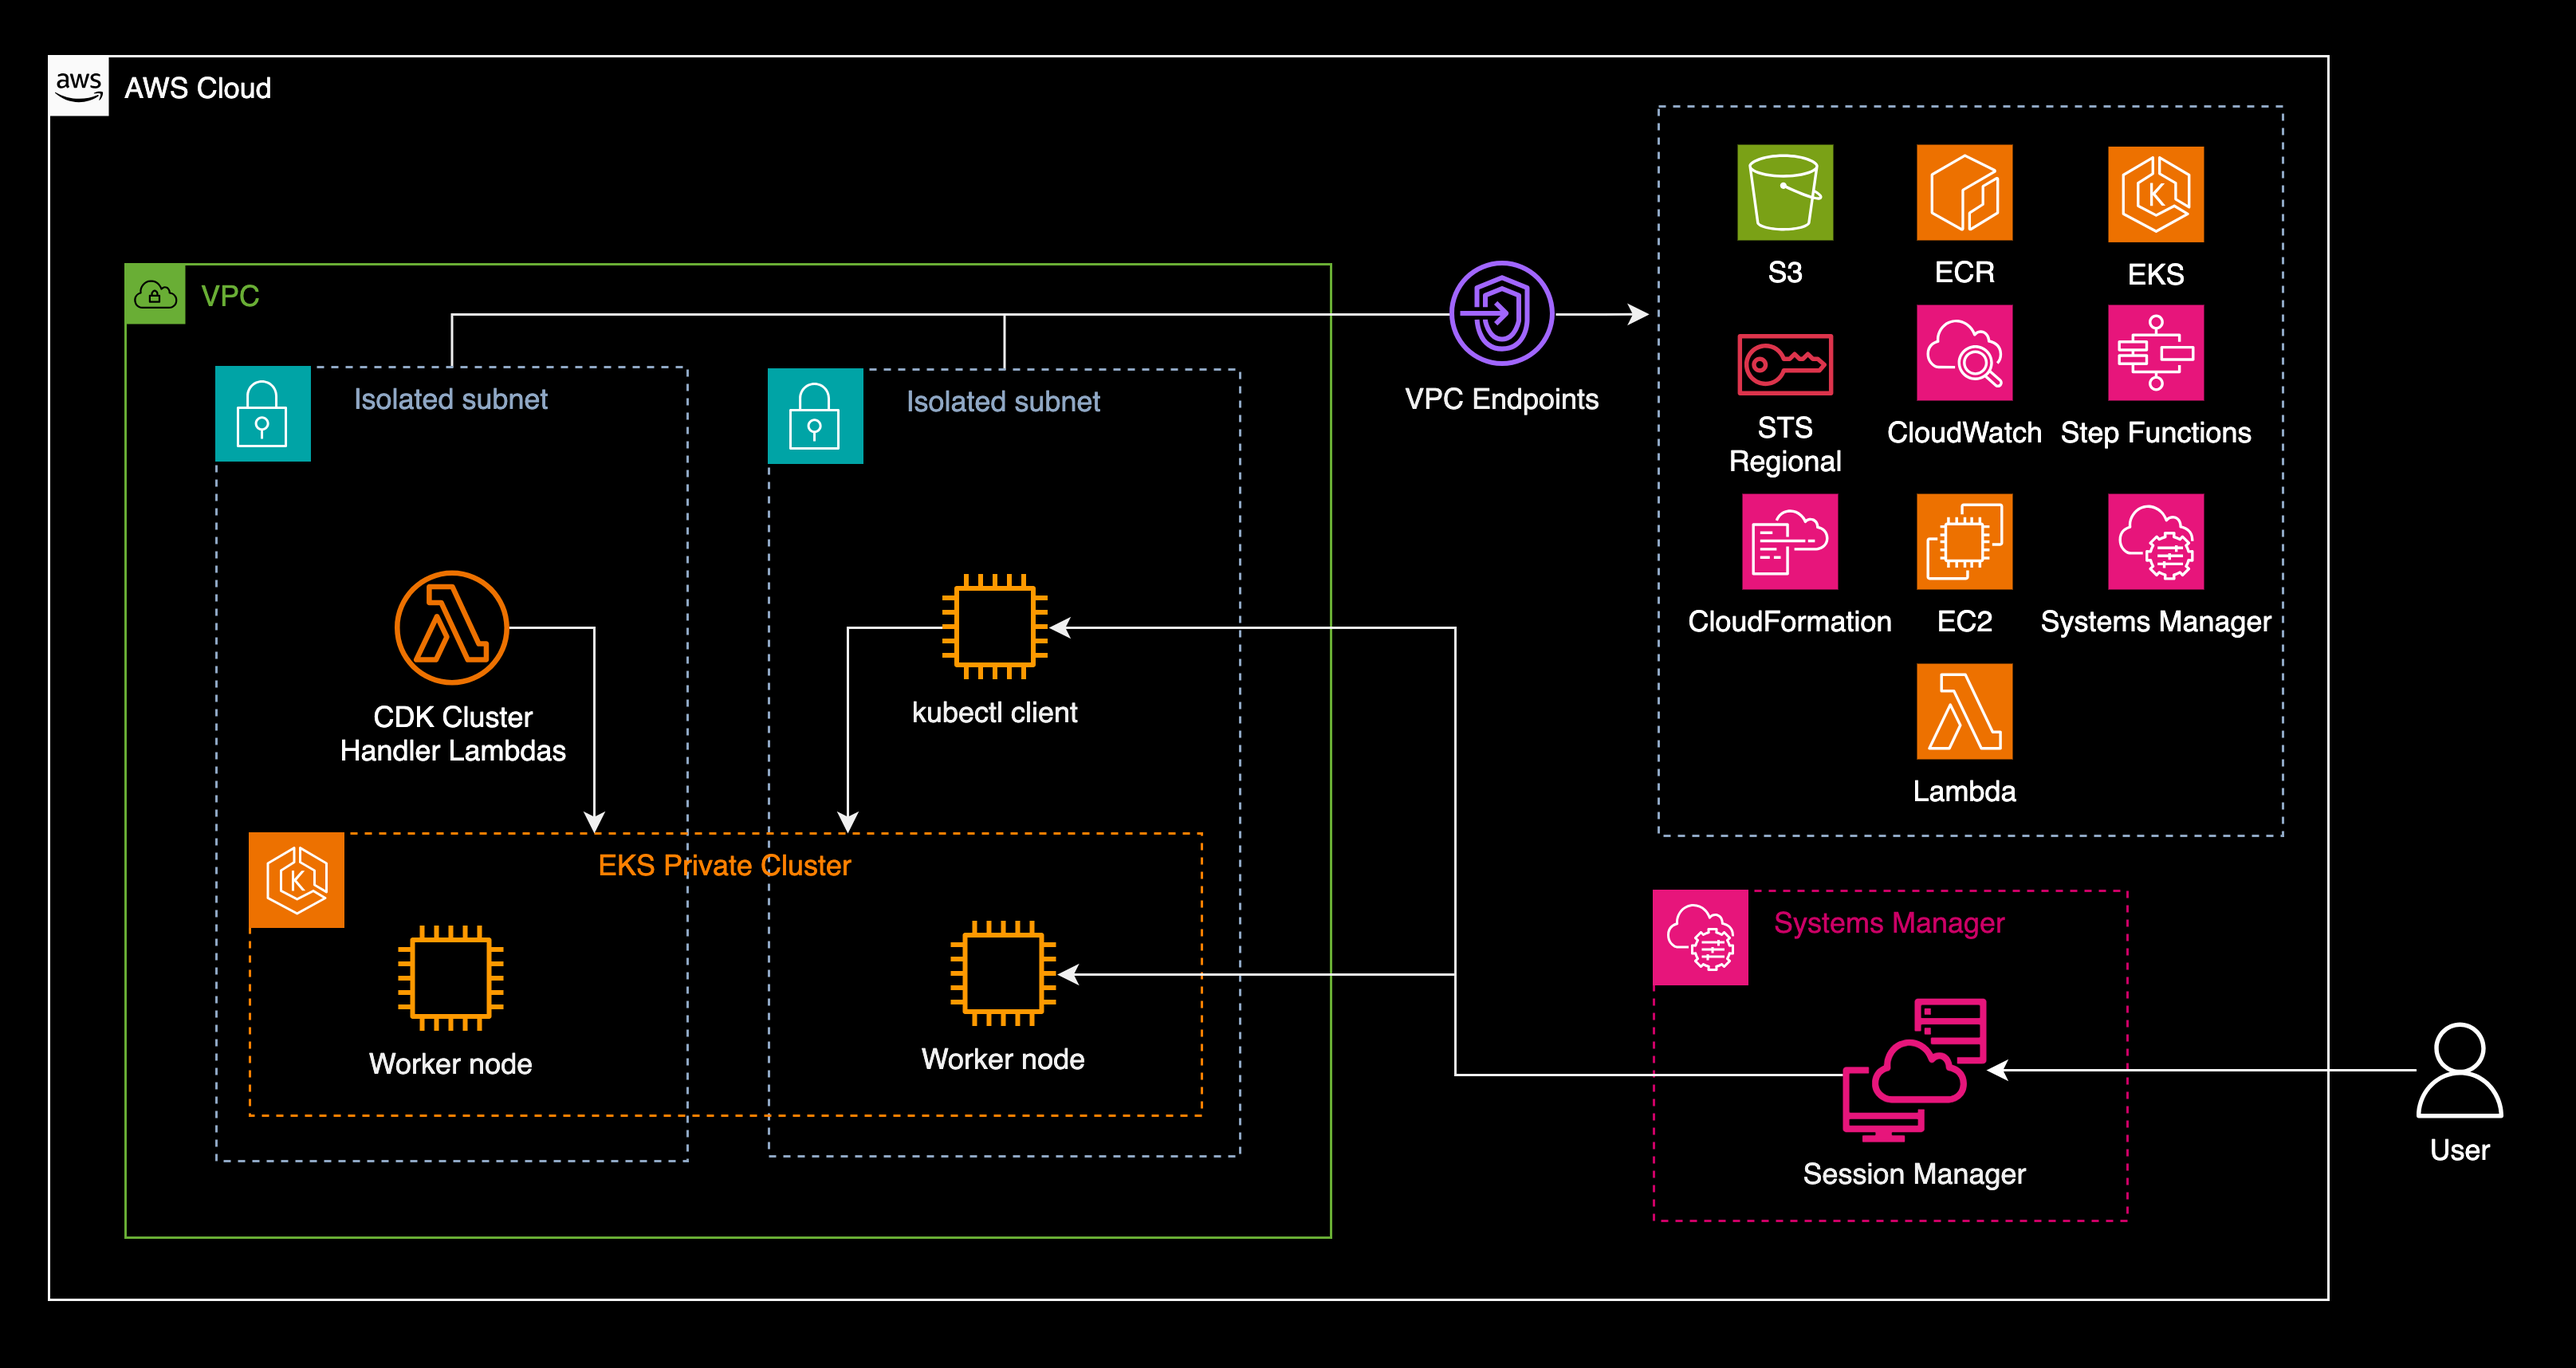
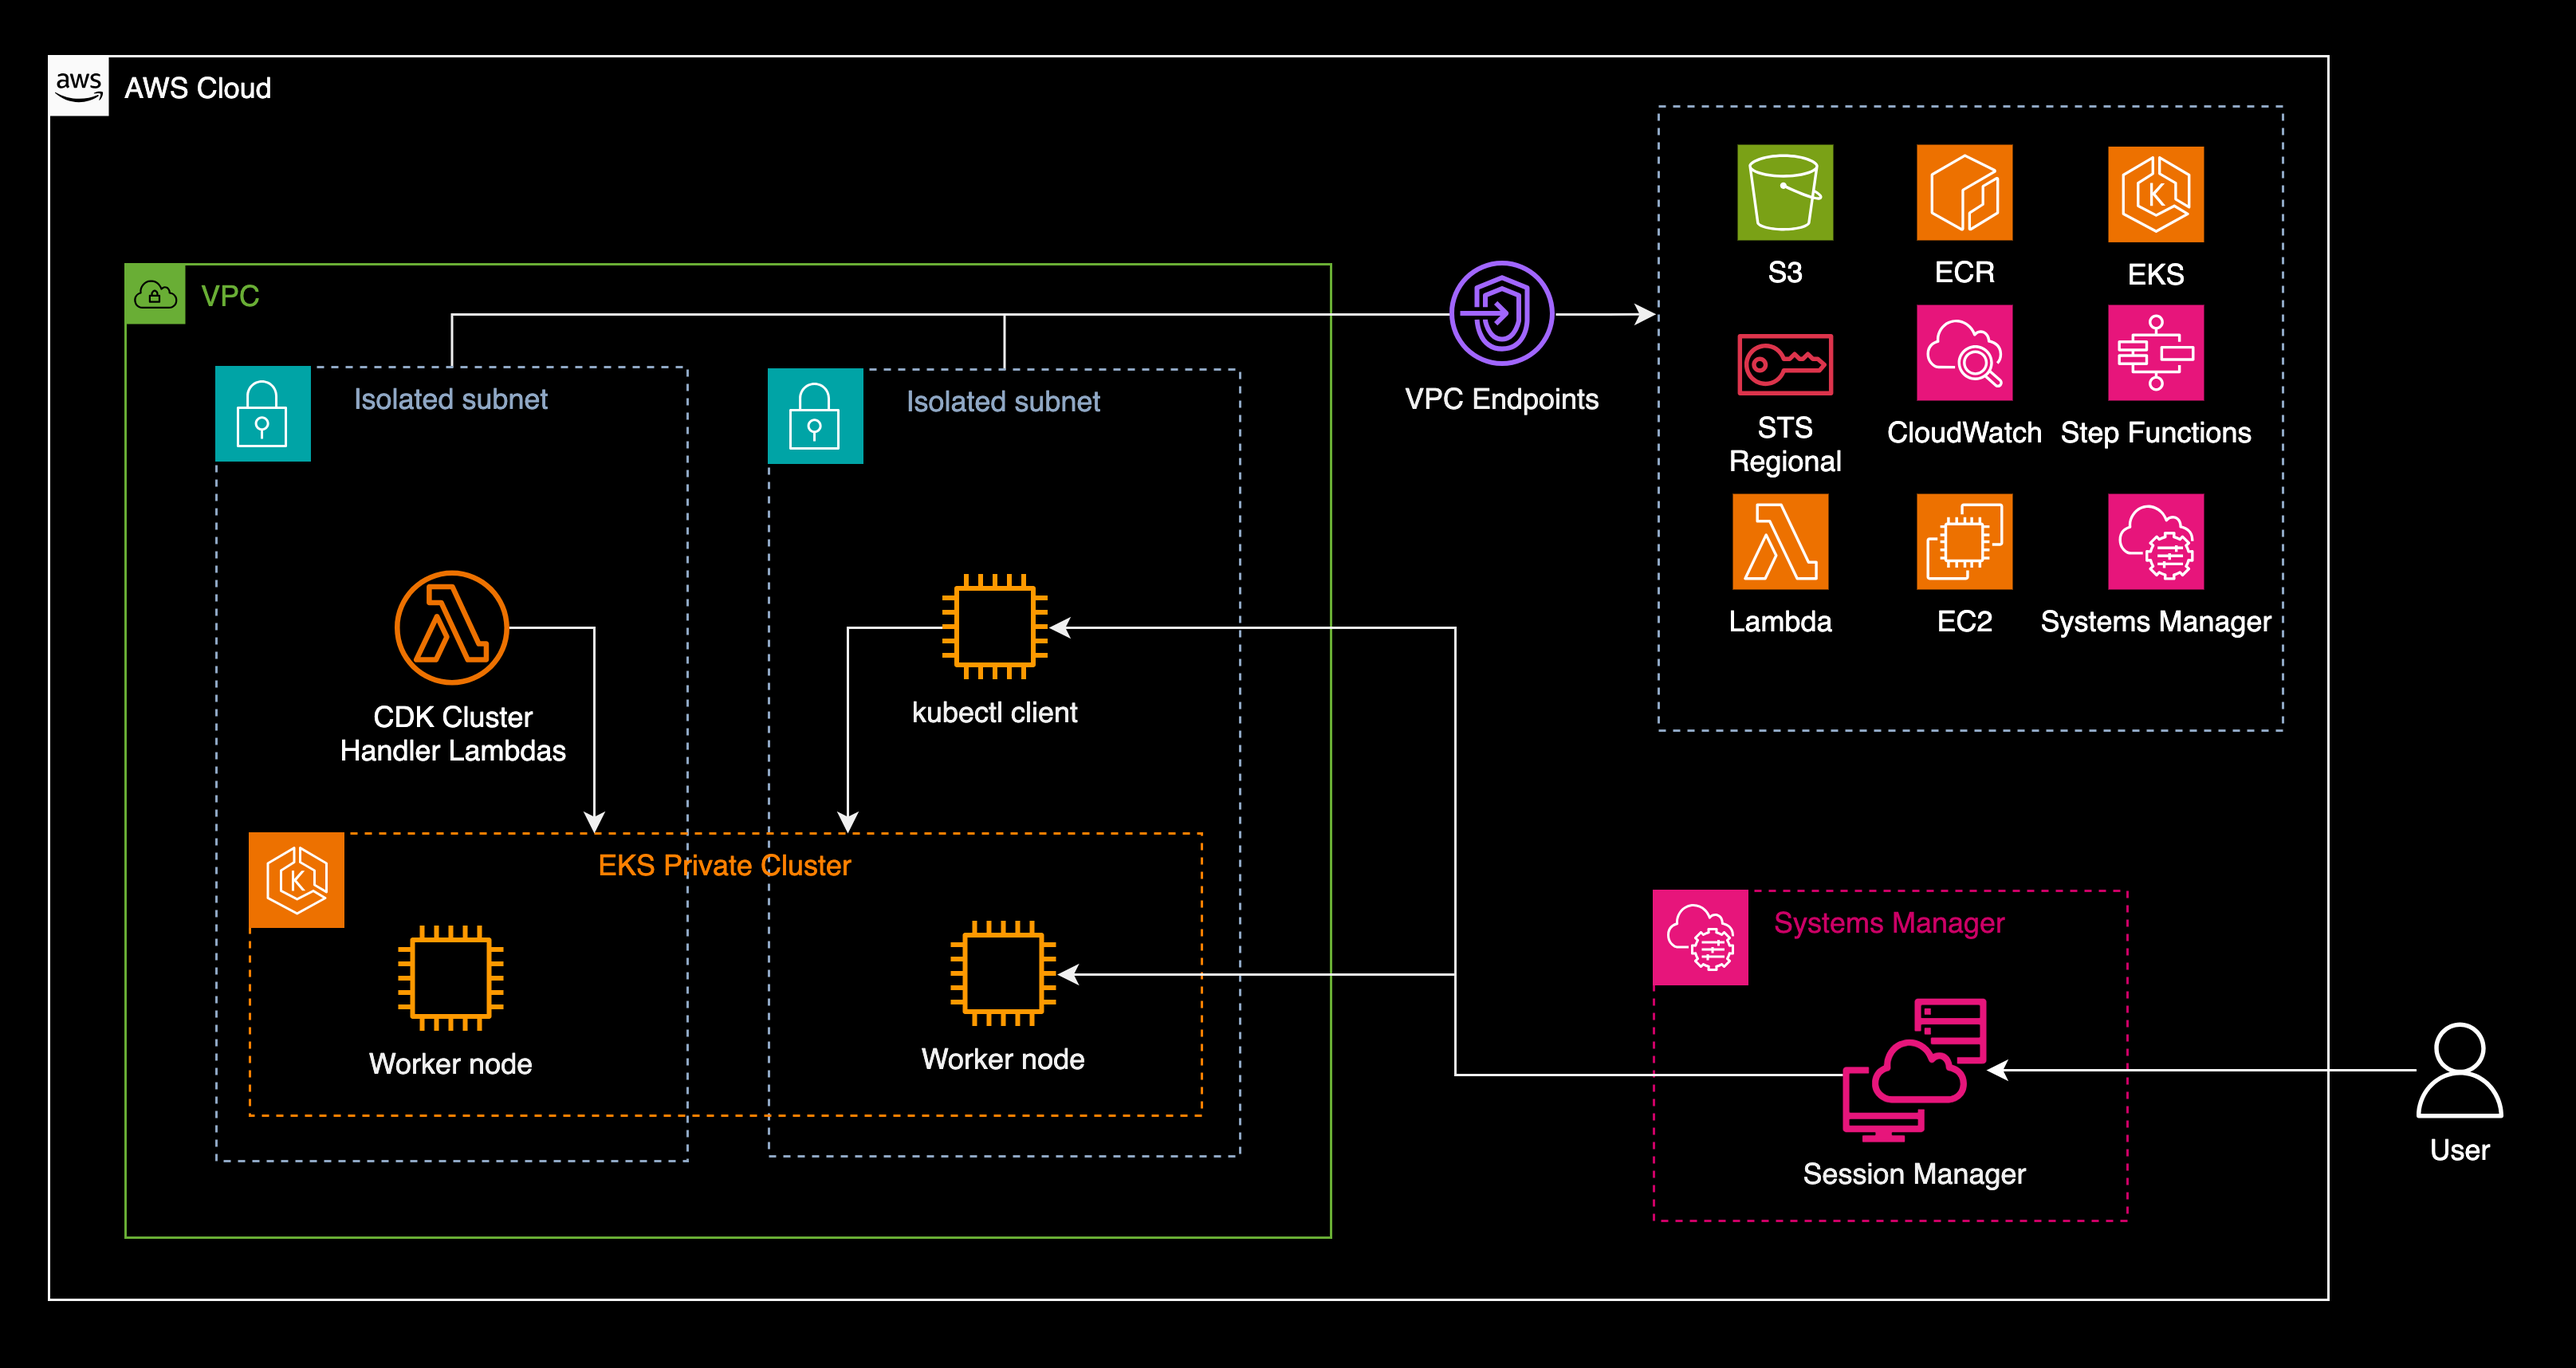
updated readme with more details, removed endpoints for cloudformation and event bridge as they are not needed after further testing, updated the diagram

Changed region(s): [[0.65, 0.3397, 0.7428, 0.4633], [0.7428, 0.4633, 0.8047, 0.5868], [0.619, 0.2162, 0.65, 0.2471]]

diff --git a/java/eks/private-cluster/src/main/java/com/amazonaws/cdk/examples/EksPrivateClusterStack.java b/java/eks/private-cluster/src/main/java/com/amazonaws/cdk/examples/EksPrivateClusterStack.java
@@ -193,7 +193,6 @@ public class EksPrivateClusterStack extends Stack {
             InterfaceVpcEndpointAwsService.ECR_DOCKER,
             InterfaceVpcEndpointAwsService.CLOUDWATCH_MONITORING,
             InterfaceVpcEndpointAwsService.CLOUDWATCH_LOGS,
-            InterfaceVpcEndpointAwsService.EVENTBRIDGE,
             InterfaceVpcEndpointAwsService.STS,
             InterfaceVpcEndpointAwsService.SSM,
             InterfaceVpcEndpointAwsService.SSM_MESSAGES,
@@ -201,7 +200,6 @@ public class EksPrivateClusterStack extends Stack {
             InterfaceVpcEndpointAwsService.EKS,
             InterfaceVpcEndpointAwsService.EC2,
             InterfaceVpcEndpointAwsService.EC2_MESSAGES,
-            InterfaceVpcEndpointAwsService.CLOUDFORMATION,
             InterfaceVpcEndpointAwsService.STEP_FUNCTIONS,
             InterfaceVpcEndpointAwsService.STEP_FUNCTIONS_SYNC);
 

diff --git a/java/eks/private-cluster/README.md b/java/eks/private-cluster/README.md
@@ -11,12 +11,37 @@
 
 # Build an EKS Private Cluster in Isolated Subnets with CDK
 
-This is a CDK example in Java that creates a private EKS cluster isolated from the Internet. This CDK first deploys a VPC with only Isolated Subnets. There are no Internet Gateway or NAT Gateway in the VPC. The cluster will have one worker node to run the pods and one client EC2 instance for `kubectl`. The EC2 instances will be accessible through AWS Systems Manager. The connection to the AWS services required to create the cluster, download assets, pull container repositories will be through VPC Endpoints.
+This is a CDK example in Java that creates a private EKS cluster isolated from the Internet. This CDK application deploys a VPC with only Isolated Subnets. There is no Internet Gateway, NAT Gateway, or any proxy to the internet in the VPC. The cluster will have one worker node to run the pods and one client EC2 instance for `kubectl`. The EC2 instances will be accessible through [AWS Systems Manager](https://docs.aws.amazon.com/systems-manager/latest/userguide/what-is-systems-manager.html). The private connection to the AWS services will be through [VPC Endpoints](https://docs.aws.amazon.com/whitepapers/latest/aws-privatelink/what-are-vpc-endpoints.html).
+
+## Use cases
+A private EKS cluster setup is commonly used in enterprise setup or highly regulated environments where there are strict requirements to not allow internet connectivity to the deployed workloads.
 
 ## Architecture diagram of the deployed resources
 
 ![eks-private-cluster-diagram](eks-private-cluster-diagram.png)
 
+## VPC Endpoints for this stack
+The cluster stack setup will create the following VPC endpoints.
+
+1. S3 - `s3`
+1. ECR - `ecr.api`, `ecr.dkr`
+1. EC2 - `ec2`
+1. EKS - `eks`
+1. Security Token Service - `sts`
+1. Cloudwatch - `logs`, `monitoring`
+1. Systems Manager - `ec2messages`, `ssm`, `ssmmessages`
+1. Lambda - `lambda`
+1. Step Functions - `states`, `sync-states`
+
+In the console, you will see Endpoints created in each Isolated subnet with the Service Name prefixed with `com.amazonaws.[region].` e.g. `com.amazonaws.ap-southeast-1.s3`.
+
+The S3 endpoint is used to download the assets, artifacts, and tools stored in S3 buckets. The ECR endpoint is to pull container images in private repos and even in public repos in upstream registries via [ECR pull through caches](https://docs.aws.amazon.com/AmazonECR/latest/userguide/pull-through-cache.html). The EC2 endpoint is used to call the EC2 services when creating the worker nodes and client instance. The EKS endpoint is to call the EKS API for cluster creation. The CloudWatch endpoints are for logging and monitoring. The Lambda and Step Function endpoints are required by the Custom Resource cluster handler of CDK in creating the EKS cluster.
+
+Also see the required endpoints for Systems Manager [here](https://docs.aws.amazon.com/systems-manager/latest/userguide/setup-create-vpc.html#sysman-setting-up-vpc-create).
+
+After deployment, as you add applications to the cluster requiring other services, you will need to add their respective VPC endpoints. The full list can be found [here](https://docs.aws.amazon.com/vpc/latest/privatelink/aws-services-privatelink-support.html).
+
+> Note that you will be billed for each hour that your VPC endpoint remains provisioned in each Availability Zone. Data processing charges also apply. Please refer to its pricing [here](https://aws.amazon.com/privatelink/pricing/).
 
 ## Build and deploy 
 1. Go the root directory of this example
@@ -32,14 +57,23 @@ This is a CDK example in Java that creates a private EKS cluster isolated from t
     cdk deploy
     ```
     This will take about 25 mins. It includes the creation of the EKS cluster, the VPC endpoints, and the Lambda functions required by CDK to monitor the cluster lifecycle. The functions are deployed in the VPC and is configured in the cluster's `placeClusterHandlerInVpc` set to `true`. See the [EKS Construct Library](https://docs.aws.amazon.com/cdk/api/v2/java/software/amazon/awscdk/services/eks/package-summary.html) for more details.
-1. After a successful deployment, note the output of CDK i.e. the cluster's name, the `kubeconfig` settings, and the master IAM role of the cluster.
+1. After a successful deployment, note the output of CDK on the cluster's name, the `kubeconfig` settings, the `kubectl-client` instance id, and the master IAM role of the cluster.
+
+    __Example output:__
+    ```
+    Outputs:
+    EksPrivateCluster.eksClusterNameXXXXXXXX = eks-private
+    EksPrivateCluster.eksConfigCommandXXXXXXXX = aws eks update-kubeconfig --name eks-private --region ap-southeast-1 --role-arn arn:aws:iam::111111111111:role/EksPrivateCluster-clusteradminxxxxxxxx-xxxxxxxxxxxx
+    EksPrivateCluster.eksGetTokenCommandXXXXXXXX = aws eks get-token --cluster-name eks-private --region ap-southeast-1 --role-arn arn:aws:iam::111111111111:role/EksPrivateCluster-clusteradminxxxxxxxx-xxxxxxxxxxxx 
+    EksPrivateCluster.eksMastersRoleArnXXXXXXXX = arn:aws:iam::111111111111:role/EksPrivateCluster-clusteradminxxxxxxxx-xxxxxxxxxxxx
+    EksPrivateCluster.kubectlclientBastionHostXXXXXXXX = i-000000000aaaaaaaa
+    ```
 
 ## Accessing the EC2 instances with AWS Systems Manager Session Manager
 1. Login to the AWS Console and go to the EC2 Service. Find and select the instance created by CDK with the name `kubectl-client`. Click `Connect`. Choose `Session Manager.`
 1. Optional. Update the [Session Manager Preferences](https://docs.aws.amazon.com/systems-manager/latest/userguide/session-preferences-shell-config.html) to use bash and set alias for kubectl.
     ```
     /bin/bash
-    set -o vi
     alias k=kubectl
     export AWS_STS_REGIONAL_ENDPOINTS=regional
     cd $HOME
@@ -72,14 +106,15 @@ upload: ./kubectl to s3://my-bucket/kubectl-1.28.5
 ## Accessing the EKS cluster with kubectl
 To access the EKS cluster, SSM to the `kubectl-client` instance
 
-Update the kubeconfig
+Update the kubeconfig. Get the settings from the `cdk deploy` output you noted earlier.
 
 ```
 [ssm-user@ip-10-0-0-240 bin]$ aws eks update-kubeconfig --name eks-private --region ap-southeast-1 --role-arn arn:aws:iam::111111111111:role/EksPrivateCluster-clusteradminxxxxxxxx-xxxxxxxxxxxx
 Added new context arn:aws:eks:ap-southeast-1:111111111111:cluster/eks-private to /home/ssm-user/.kube/config
 ```
 
-Get pods and nodes
+Test the access to the EKS cluster. Get pods and nodes
+
 ```
 [ssm-user@ip-10-0-0-240 ~]$ kubectl get nodes
 NAME                                           STATUS   ROLES    AGE   VERSION
@@ -91,4 +126,9 @@ kube-system   aws-node-9sqcb             2/2     Running   2 (4h39m ago)   19h
 kube-system   coredns-6787556b84-cg29g   1/1     Running   1 (4h39m ago)   19h
 kube-system   coredns-6787556b84-q98ks   1/1     Running   1 (4h39m ago)   19h
 kube-system   kube-proxy-m9ms4           1/1     Running   1 (4h39m ago)   19h
+```
+
+## Cleanup
+```
+cdk destroy
 ```
